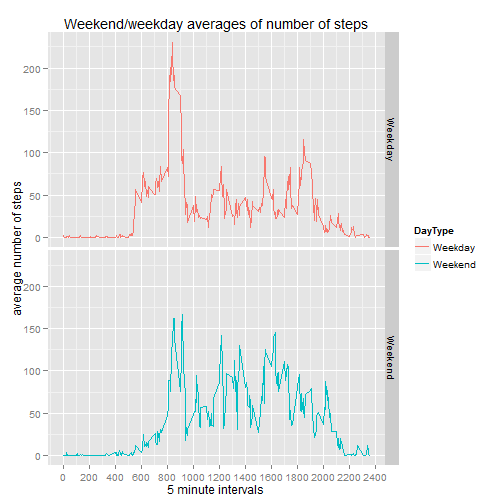
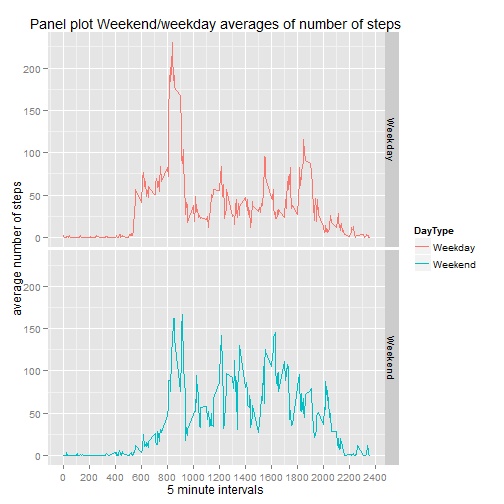
take 5

Changed region(s): [[0.0595, 0.0298, 0.8036, 0.0595]]

diff --git a/RepData/PA1_template.html b/RepData/PA1_template.html
@@ -296,9 +296,9 @@ num_NAs  &lt;- nrow(data[t1,])
 <p>There are <strong>2304</strong> missing values in the dataset.  </p>
 
 <ol>
-<li><p>Devise a strategy for filling in all of the missing values in the dataset. The strategy does not need to be sophisticated. For example, you could use the mean/median for that day, or the mean for that 5-minute interval, etc.  Explain..
-Missing values will be replaced with the mean for the 5 minute interval.</p></li>
-<li><p>Create a new dataset that is equal to the original dataset but with the missing data filled in.  </p></li>
+<li><p>Since activity would typically depend upon the time of day, a suitable strategy for imputing missing values would be to <strong>replace missing values</strong> with the <strong>mean for the 5 minute interval</strong>.  </p></li>
+<li><p>Create a new dataset that is equal to the original dataset but with the missing data filled in.<br/>
+For further analysis, we will use the new data set with imputed missing values.</p></li>
 </ol>
 
 <pre><code class="r">data1&lt;- data 
@@ -329,7 +329,7 @@ p1 &lt;- hist(data_sum_adjusted$adjusted_sum, breaks = 50,
 <pre><code class="r">p2 &lt;- hist(data_sum_adjusted$sum, breaks = 50)
 </code></pre>
 
-<p>Here we will overlay the histogram of imupted data along with the histogram of raw data, to gauge any apparent differences.</p>
+<p>Here we will overlay the histogram of imputed data along with the histogram of raw data, to gauge any apparent differences.</p>
 
 <pre><code class="r">plot(p1, col = rgb(0,0,1,0.25), xlim= c(0, max(data_sum_adjusted$adjusted_sum)), 
      main=&quot;Histogram of adjusted &amp; un-adjusted sum of daily steps&quot;, 
@@ -369,12 +369,12 @@ g &lt;- ggplot(data1, aes(x= interval, y = adjusted_steps))
 g &lt;- g + facet_grid(DayType ~. )
 g &lt;- g + geom_line(stat = &quot;summary&quot;, fun.y = &quot;mean&quot;, aes(col = DayType) )
 g &lt;- g + xlab(&quot;5 minute intervals&quot;) + ylab(&quot;average number of steps&quot;) 
-g &lt;- g + ggtitle(&quot;Weekend/weekday averages of number of steps&quot;)
+g &lt;- g + ggtitle(&quot;Panel plot Weekend/weekday averages of number of steps&quot;)
 g &lt;- g + scale_x_continuous(breaks = seq(from = 0, to = 2400, by = 200))
 print(g)
 </code></pre>
 
[2 lines of base64/hex data omitted]
 
 <p>Based on the time series plots above, the activity start and end times are pretty much the same for weekdays and weekends, but the peak activity, centered around 0800 - 0900 interval,is more on weekdays.<br/>
 The variance in mean weekday activity is more as compared to mean weekend activity, across all intervals.</p>

diff --git a/RepData/PA1_template.md b/RepData/PA1_template.md
@@ -121,10 +121,10 @@ num_NAs  <- nrow(data[t1,])
 There are **2304** missing values in the dataset.  
 
 
-2. Devise a strategy for filling in all of the missing values in the dataset. The strategy does not need to be sophisticated. For example, you could use the mean/median for that day, or the mean for that 5-minute interval, etc.  Explain..
-Missing values will be replaced with the mean for the 5 minute interval.
+2. Since activity would typically depend upon the time of day, a suitable strategy for imputing missing values would be to **replace missing values** with the **mean for the 5 minute interval**.  
 
 3. Create a new dataset that is equal to the original dataset but with the missing data filled in.  
+For further analysis, we will use the new data set with imputed missing values.
 
 
 ```r
@@ -158,7 +158,7 @@ p1 <- hist(data_sum_adjusted$adjusted_sum, breaks = 50,
 p2 <- hist(data_sum_adjusted$sum, breaks = 50)
 ```
 
-Here we will overlay the histogram of imupted data along with the histogram of raw data, to gauge any apparent differences.
+Here we will overlay the histogram of imputed data along with the histogram of raw data, to gauge any apparent differences.
 
 
 ```r
@@ -205,7 +205,7 @@ g <- ggplot(data1, aes(x= interval, y = adjusted_steps))
 g <- g + facet_grid(DayType ~. )
 g <- g + geom_line(stat = "summary", fun.y = "mean", aes(col = DayType) )
 g <- g + xlab("5 minute intervals") + ylab("average number of steps") 
-g <- g + ggtitle("Weekend/weekday averages of number of steps")
+g <- g + ggtitle("Panel plot Weekend/weekday averages of number of steps")
 g <- g + scale_x_continuous(breaks = seq(from = 0, to = 2400, by = 200))
 print(g)
 ```
